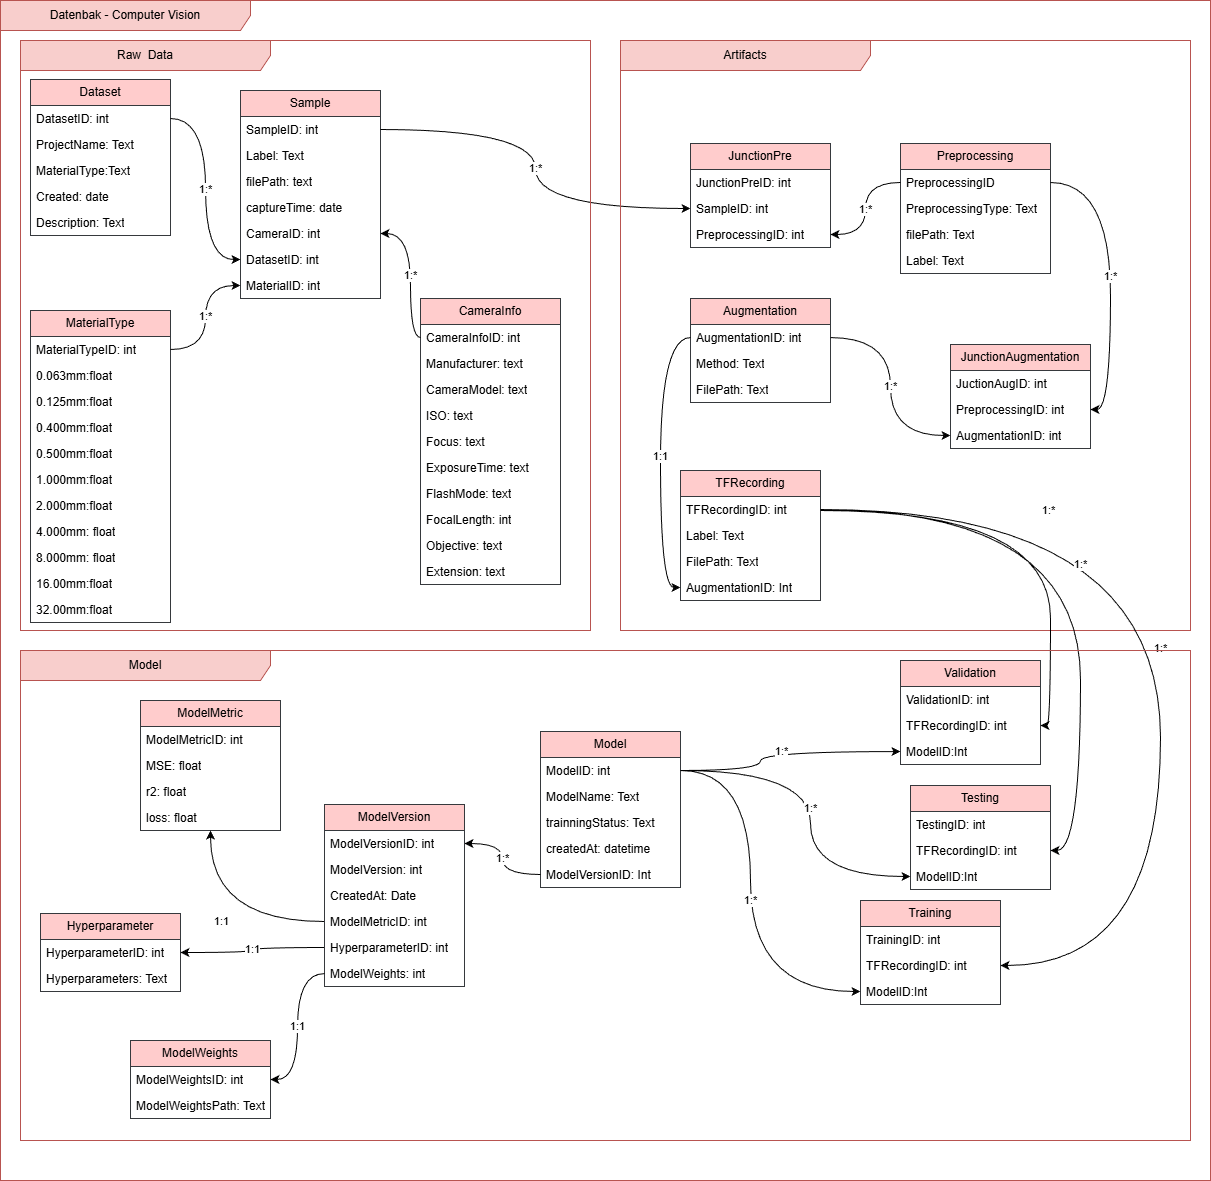
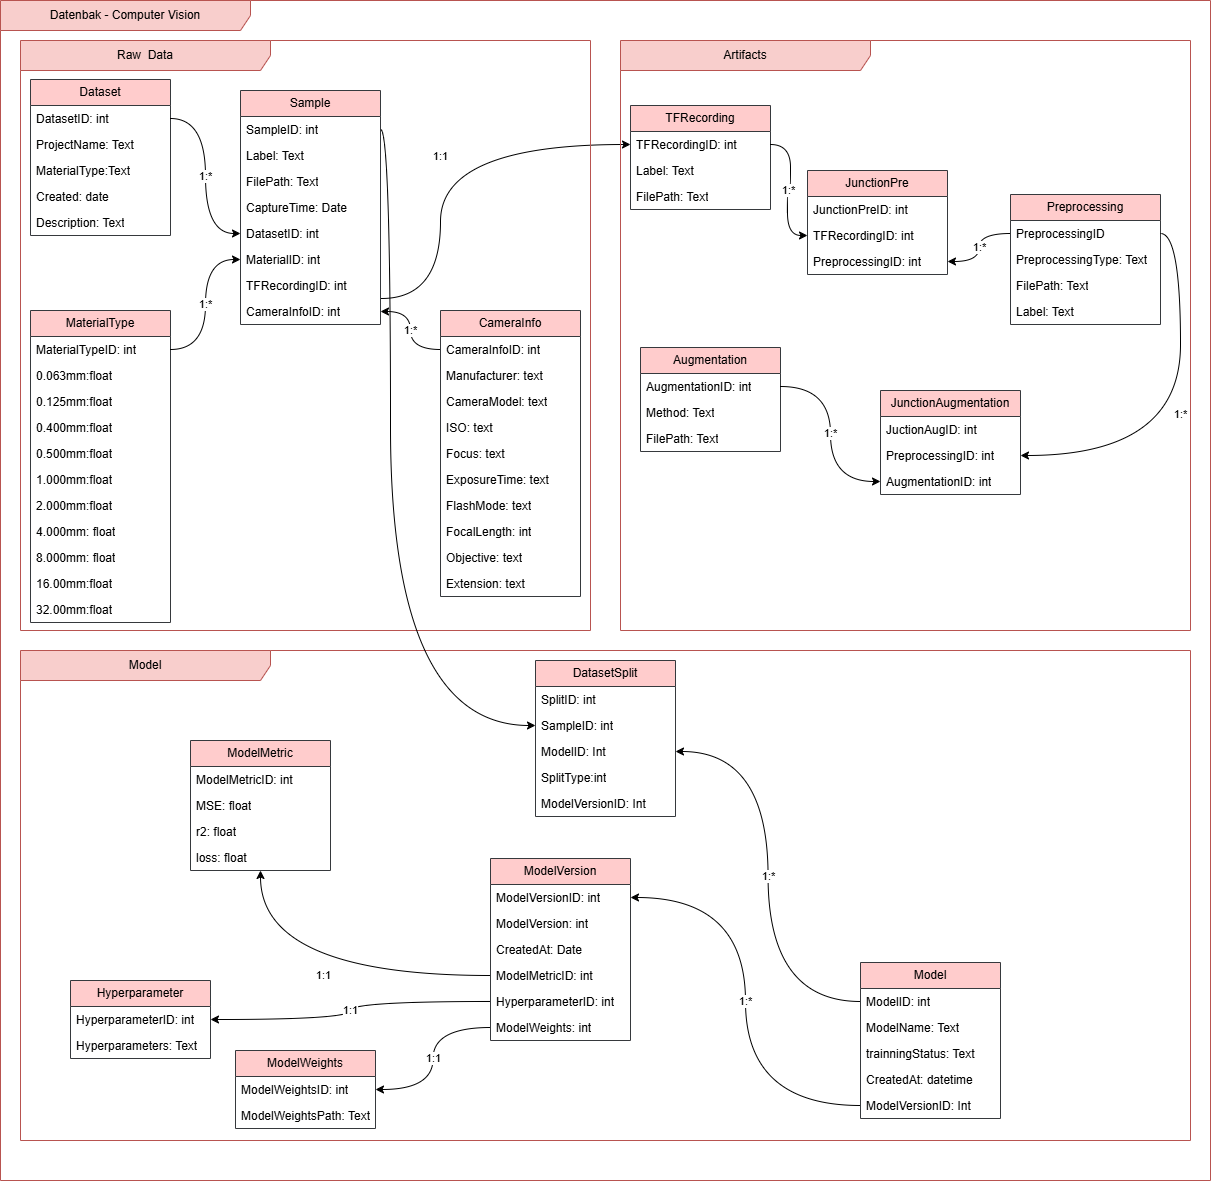
feat: Update TFRecorder and dataBaseFill functions to improve TFRecord serialization and include SampleID in response

diff --git a/app/Preprocessing/TFRecorder.py b/app/Preprocessing/TFRecorder.py
@@ -12,7 +12,7 @@ class TFRecorder:
     def __floatFeature(self,value):
         return tf.train.Feature(float_list=tf.train.FloatList(value=value))
     
-    def __int64Feature(self,*value):
+    def __int64Feature(self,value):
         return tf.train.Feature(int64_list=tf.train.Int64List(value=value))
     
     def __stringFeature(self,value):
@@ -36,15 +36,25 @@ class TFRecorder:
         imageShape = image.shape
 
         # flatten the image to 1D array
-        image = tf.reshape(image, [-1])
+        image_flat = tf.reshape(image, [-1]).numpy().tolist()
 
-        # returns serialized image and label
-        return tf.train.Example(features=tf.train.Features(feature={
-            'image': self.__floatFeature(image),
-            'shape': self.__int64Feature(imageShape[0], imageShape[1], imageShape[2]),
-            'label': self.__stringFeature(label),
-            'label_init': self.__int64Feature(labelInit)
-        })).SerializeToString() 
+        example = tf.train.Example(
+            features=tf.train.Features(
+                feature={
+                    'image': self.__floatFeature(image_flat),
+                    'shape': self.__int64Feature([
+                        int(imageShape[0]),
+                        int(imageShape[1]),
+                        int(imageShape[2])
+                    ]),
+                    'label': self.__stringFeature(label),
+                    'label_init': self.__int64Feature([int(labelInit)])
+                }
+            )
+        )
+
+        return example.SerializeToString()
+
 
     
     #creates the module for for reading and decoding the images and labels
@@ -149,10 +159,10 @@ class TFRecorder:
     def saveTFRecord(self,fileName:str,filePath:str, TFRecord:bytes)->None:
 
         # creates the file location where the TF record is to be saved
-        storeLocation=r'\\'.join(filePath,fileName)
+        storeLocation='/'.join([filePath,fileName])
 
         # saves file in the indicated location
-        with open(file=storeLocation, mode='a') as file:
+        with tf.io.TFRecordWriter(path=storeLocation) as file:
             
             # creates and writes the file in the indicated location
             file.write(TFRecord)

diff --git a/app/dataBaseFill.py b/app/dataBaseFill.py
@@ -77,7 +77,8 @@ def dataBaseFill(clientAnswer: dict, action: str, file, dbFile: str) -> dict:
             return {
                 "success": True,
                 "label": labelFile,
-                "path": filePath
+                "path": filePath,
+                "SampleID":lastId
             }
 
         except Exception as e:

diff --git a/main.py b/main.py
@@ -285,7 +285,7 @@ def handleSample(
                 detail=result.get("message", "Unknown error")
             )
 
-    sampleID = result.get("sampleID")
+    sampleID = result.get("SampleID")
     imagePath = result.get("path")
     label = result.get("label")
 
